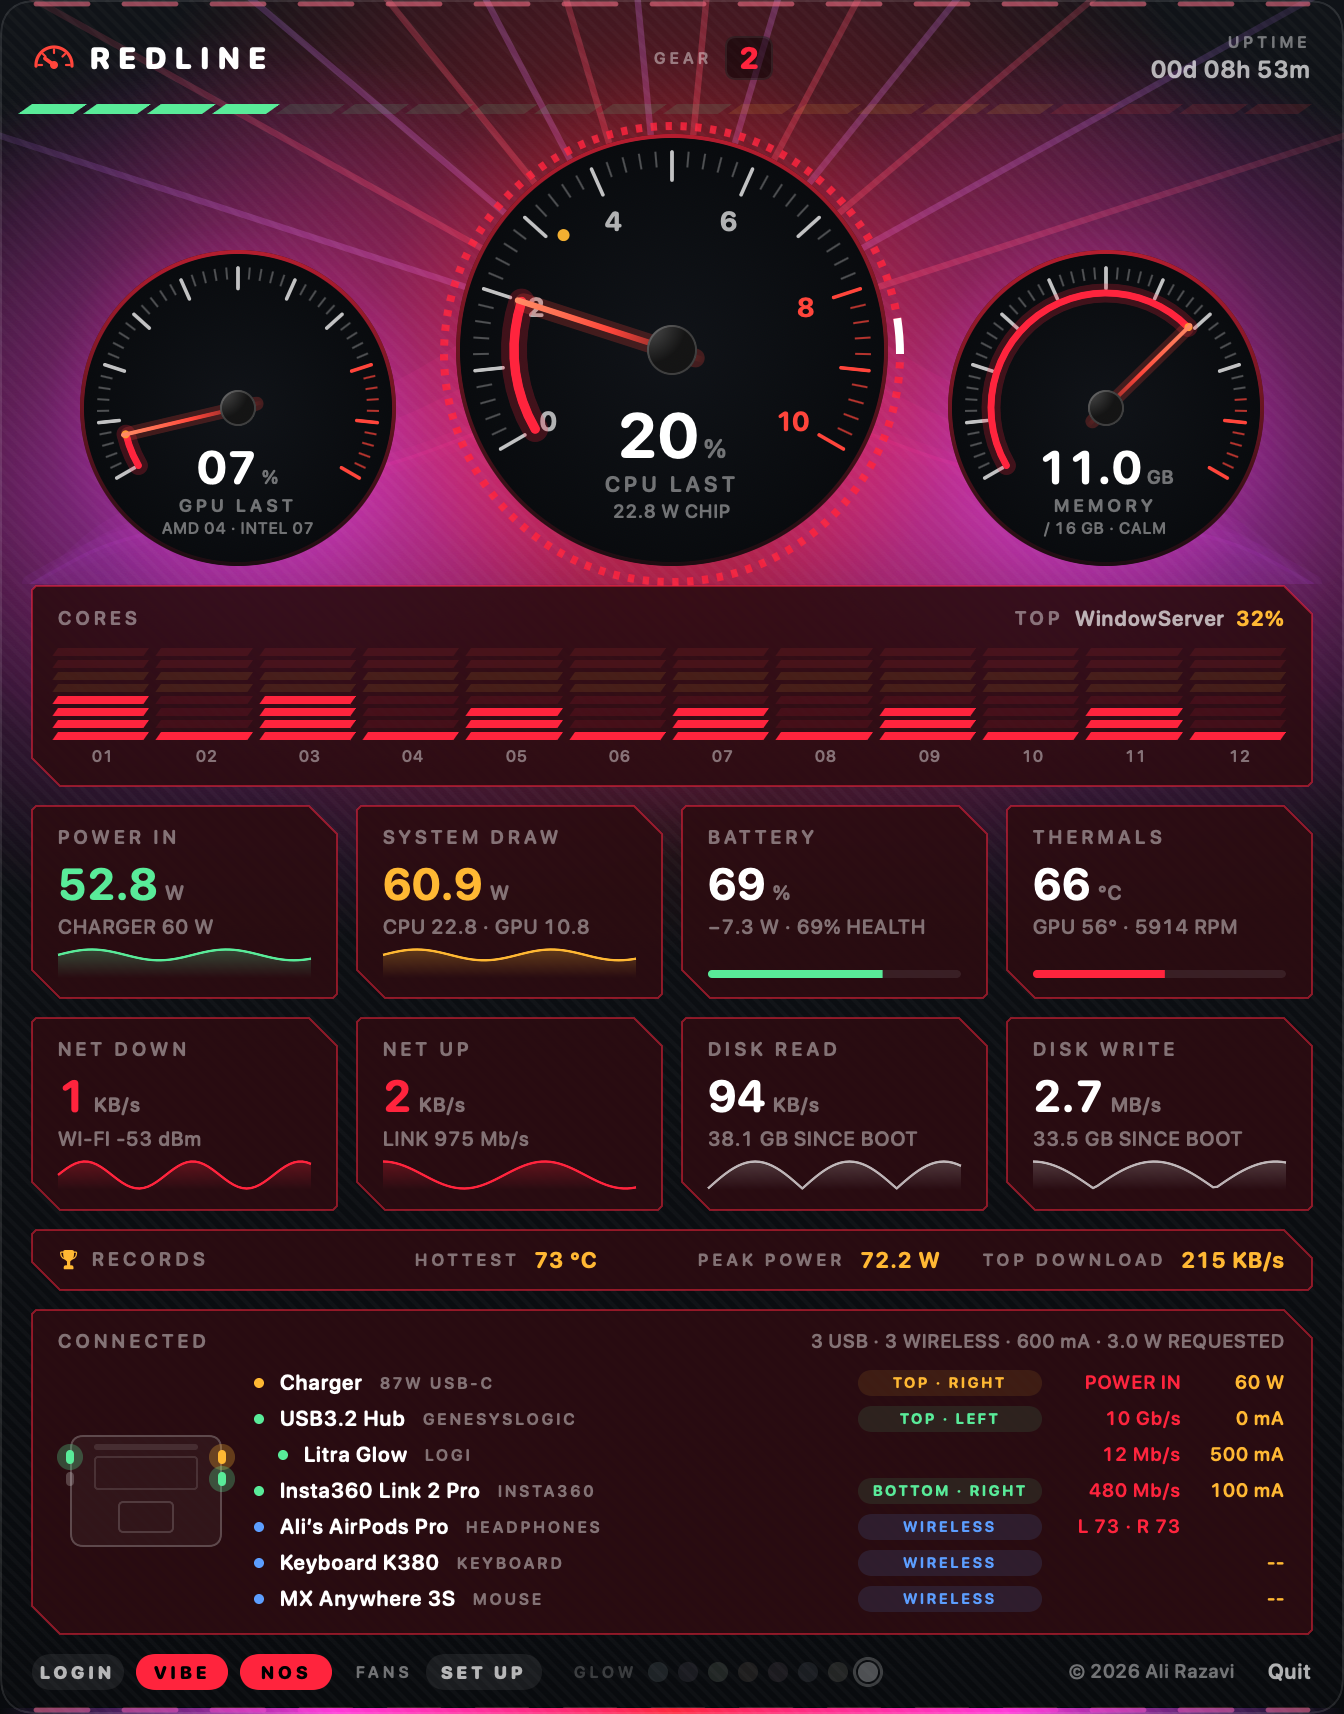
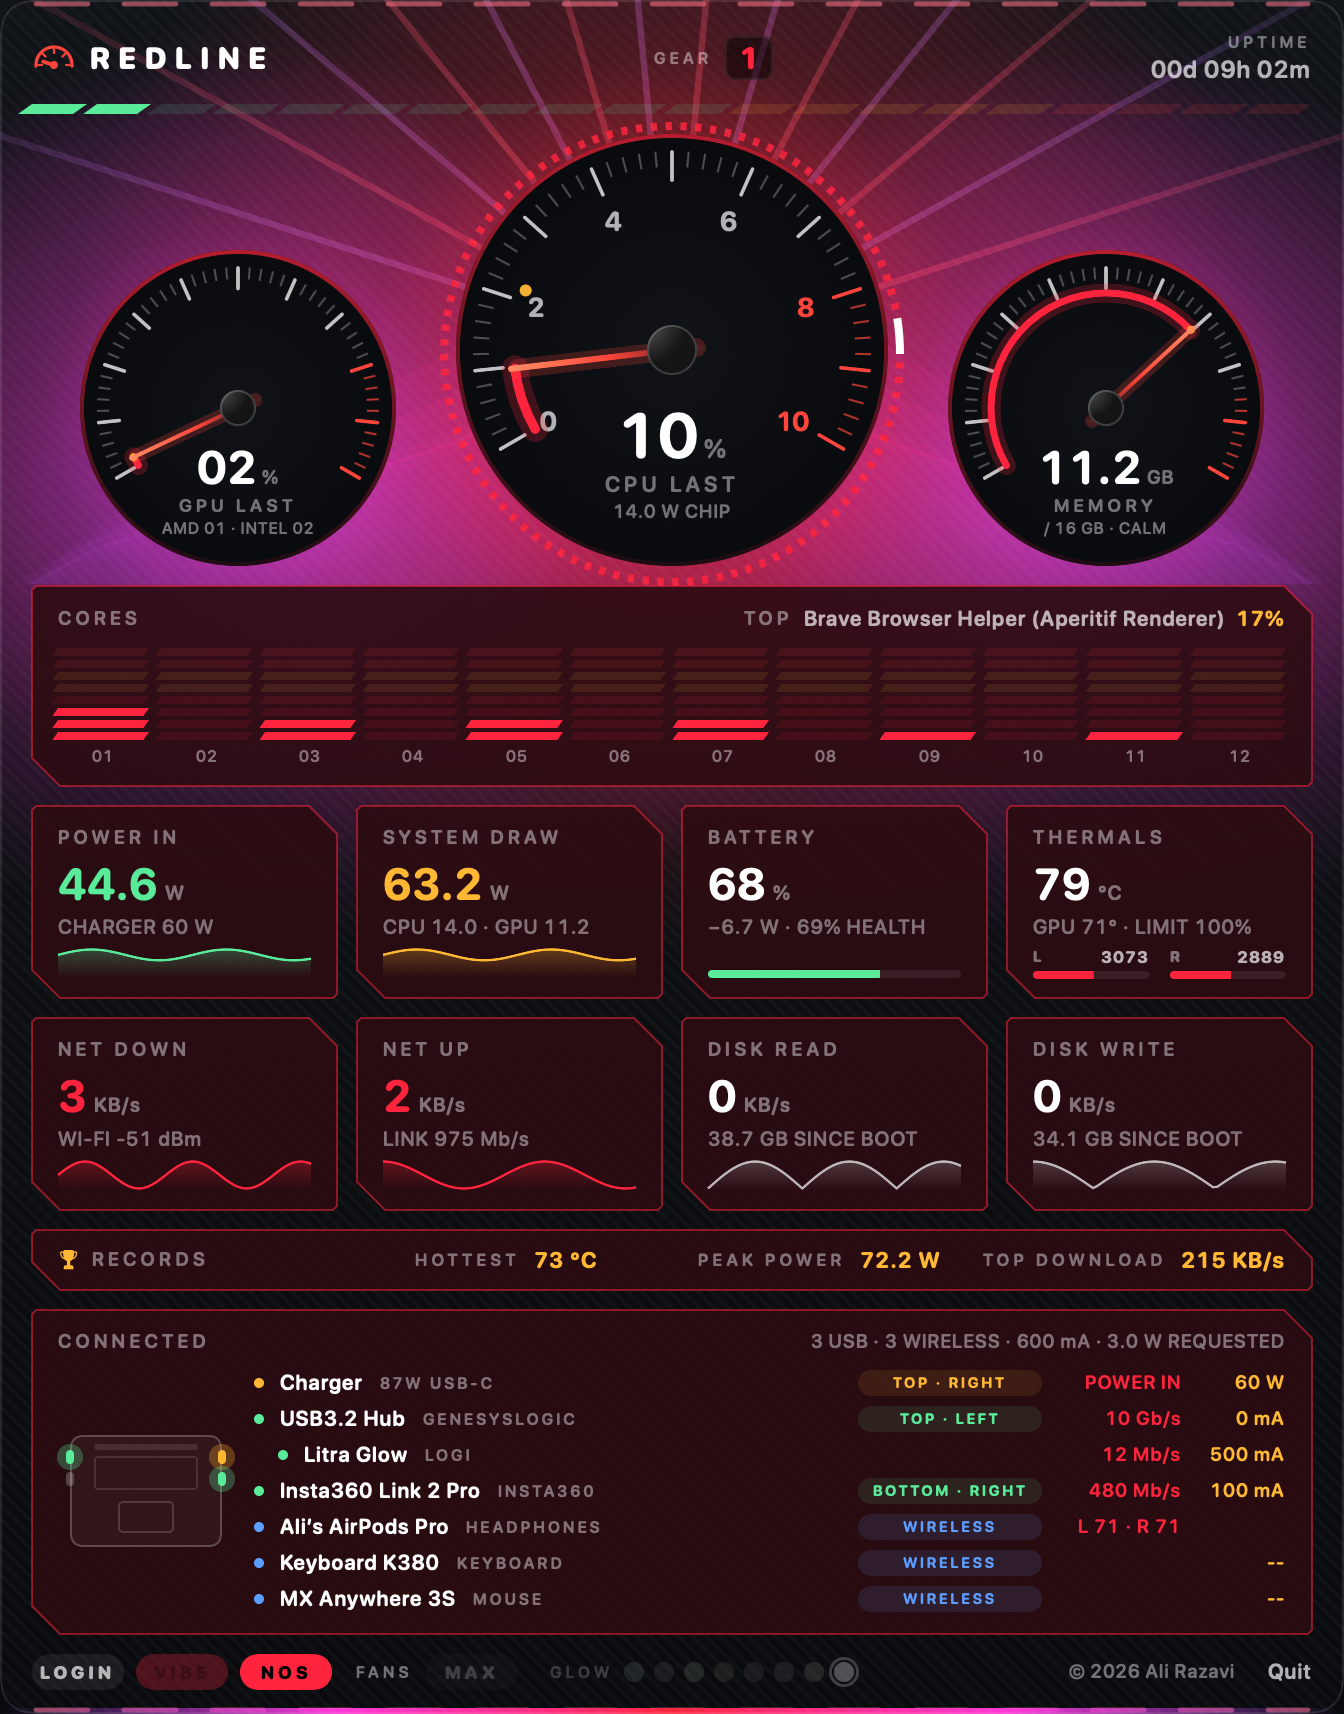
Fan helper v2 (waits before judging, reports why it fails, update path); both fans in the thermals tile; NOS dims VIBE and FANS

diff --git a/src/main.swift b/src/main.swift
@@ -88,6 +88,7 @@ struct Snap {
     var wireless: [Wireless] = []
     var hog = ""; var hogPct = 0.0
     var uptime: TimeInterval = 0
+    var fanTops: [Double] = []
     var fanForced = false     // the sensor chip says the fans are held at a fixed speed
     var chargerSocket = 0     // which USB-C socket (1-4) the charger is in; 0 = none or unknown
 }
@@ -207,6 +208,7 @@ final class Probe {
         let nf = Int(smc.read("FNum") ?? 0)
         s.fans = (0..<min(nf, 4)).compactMap { smc.read("F\($0)Ac") }
         s.fanForced = (smc.read("F0Md") ?? 0) > 0
+        if s.fanTops.count != s.fans.count { s.fanTops = (0..<s.fans.count).map { smc.read("F\($0)Mx") ?? 6000 } }
         if let mx = smc.read("F0Mx"), mx > 1000 { s.fanMax = mx }
         var st: Unmanaged<CFDictionary>?
         if IOPMCopyCPUPowerStatus(&st) == kIOReturnSuccess, let d = st?.takeRetainedValue() as? [String: Any] {
@@ -343,7 +345,18 @@ enum Fans {
         guard let a = try? FileManager.default.attributesOfItem(atPath: helper) else { return false }
         return (a[.ownerAccountID] as? NSNumber)?.intValue == 0 && ((a[.posixPermissions] as? NSNumber)?.intValue ?? 0) & 0o4000 != 0
     }
-    static func set(max: Bool) { guard ready else { return }; _ = Probe.run(helper, [max ? "max" : "auto"]) }
+    static let version = "2"       // must match VERSION in src/fan.c; an older installed helper is asked to be updated
+    /// True when the installed helper is this version.
+    static var current: Bool { ready && (String(data: Probe.run(helper, ["version"]), encoding: .utf8) ?? "").trimmingCharacters(in: .whitespacesAndNewlines) == version }
+    /// Returns what the helper said when it could not do it (empty = fine).
+    @discardableResult static func set(max: Bool) -> String {
+        guard ready else { return "" }
+        let p = Process(); p.executableURL = URL(fileURLWithPath: helper); p.arguments = [max ? "max" : "auto"]
+        let err = Pipe(); p.standardError = err; p.standardOutput = FileHandle.nullDevice
+        guard (try? p.run()) != nil else { return "could not start the helper" }
+        let d = err.fileHandleForReading.readDataToEndOfFile(); p.waitUntilExit()
+        return (String(data: d, encoding: .utf8) ?? "").trimmingCharacters(in: .whitespacesAndNewlines)
+    }
 }
 
 // ---------- The model the panel watches ----------
@@ -355,12 +368,22 @@ final class Model: ObservableObject {
     @Published var vibeNote = ""
     @Published var fanMax = UserDefaults.standard.bool(forKey: "fanMax")      // your own choice: false = automatic, true = maximum
     @Published var fanReady = Fans.ready
+    @Published var fanStale = false          // an older helper is installed and needs the set-up run once more
+    @Published var fanNote = ""              // what the helper said if it could not do it
     /// NOS always means maximum; otherwise it is your choice.
     var fansWanted: Bool { nos || fanMax }
     private var fanApplied = Date.distantPast
     func applyFans() {
         fanApplied = Date(); let want = fansWanted
-        DispatchQueue.global(qos: .userInitiated).async { let ok = Fans.ready; if ok { Fans.set(max: want) }; DispatchQueue.main.async { if self.fanReady != ok { self.fanReady = ok } } }
+        DispatchQueue.global(qos: .userInitiated).async {
+            let ok = Fans.ready, fresh = ok && Fans.current
+            let said = fresh ? Fans.set(max: want) : ""
+            DispatchQueue.main.async {
+                if self.fanReady != ok { self.fanReady = ok }; if self.fanStale != (ok && !fresh) { self.fanStale = ok && !fresh }
+                if self.fanNote != said { self.fanNote = said }
+                if !said.isEmpty { try? (said + "\n").write(toFile: NSHomeDirectory() + "/Library/Logs/Redline-fans.log", atomically: true, encoding: .utf8) }
+            }
+        }
     }
     @Published var nos = false { didSet { if nos != oldValue { Ink.nosOn = nos; announce(); applyFans() } } }   // Coffee Mode is holding the Mac awake
     /// Tells the Touch Bar app (Glowstrip) which look is on. Local to this Mac: a saved setting plus a notification between the two apps.
@@ -439,7 +462,7 @@ final class Model: ObservableObject {
         DispatchQueue.main.async {
             self.onTick?(snap.cpu)
             // macOS takes the fans back after sleep; if what the Mac is doing no longer matches what is wanted, set it again
-            if snap.fanForced != self.fansWanted, -self.fanApplied.timeIntervalSinceNow > 6 { self.applyFans() }
+            if self.fanReady, !self.fanStale, snap.fanForced != self.fansWanted, -self.fanApplied.timeIntervalSinceNow > (self.fanNote.isEmpty ? 6 : 60) { self.applyFans() }
             var r = self.rec
             r[0] = max(r[0], snap.cpuTemp ?? 0); r[1] = max(r[1], snap.sysW ?? 0); if isOpen, settled { r[2] = max(r[2], snap.down) }
             if r != self.rec { self.rec = r; UserDefaults.standard.set(r, forKey: "records") }
@@ -802,18 +825,22 @@ struct Panel: View {
                     do { if loginOn { try SMAppService.mainApp.unregister() } else { try SMAppService.mainApp.register() } } catch {}
                     loginOn = SMAppService.mainApp.status == .enabled
                 }
-                Pill(text: "VIBE", on: m.vibe, tip: m.vibeNote.isEmpty ? "Lights move with the music, and the Touch Bar takes the underglow look" : m.vibeNote) { m.vibe.toggle(); UserDefaults.standard.set(m.vibe, forKey: "vibe"); m.announce() }
+                Pill(text: "VIBE", on: m.vibe || m.nos, tip: m.nos ? "NOS has taken over the lights. Your VIBE setting comes back when NOS goes off." : m.vibeNote.isEmpty ? "Lights move with the music, and the Touch Bar takes the underglow look" : m.vibeNote) { m.vibe.toggle(); UserDefaults.standard.set(m.vibe, forKey: "vibe"); m.announce() }
+                    .disabled(m.nos).opacity(m.nos ? 0.55 : 1)       // NOS is an override: shown as on, dimmed, not clickable
                 Pill(text: "NOS", on: m.nos, tint: Ink.nos, tip: "Coffee Mode: keep the Mac awake, with its own overdrive look") { m.toggleNOS() }
                 HStack(spacing: 6) {
                     label("FANS", 8).fixedSize()
-                    Pill(text: !m.fanReady ? "SET UP" : (m.fansWanted ? "MAX" : "AUTO"), on: m.fanReady && m.fansWanted, tint: Ink.amber,
+                    let setUp = !m.fanReady || m.fanStale, held = m.s.fanForced
+                    Pill(text: !m.fanReady ? "SET UP" : (m.fanStale ? "UPDATE" : (m.fansWanted ? "MAX" : "AUTO")), on: !setUp && m.fansWanted && held, tint: Ink.amber,
                          tip: !m.fanReady ? "Fan control needs a one-time set-up with your Mac password. Click to start it."
-                              : (m.nos ? "Held at maximum while NOS is on" : (m.fanMax ? "Both fans at their rated maximum. Click for automatic." : "macOS controls the fans. Click for maximum."))) {
-                        if !m.fanReady {
-                            if Fans.ready { m.applyFans() }
+                              : m.fanStale ? "The fan helper was improved. Click to install the new one (asks for your Mac password once more)."
+                              : !m.fanNote.isEmpty ? "The Mac did not accept it: \(m.fanNote)"
+                              : (m.nos ? "Held at maximum while NOS is on" : (m.fanMax ? "Both fans at their rated maximum (\(m.s.fanTops.map { String(format: "%.0f", $0) }.joined(separator: " and ")) rpm). Click for automatic." : "macOS controls the fans. Click for maximum."))) {
+                        if setUp {
+                            if Fans.current { m.applyFans() }
                             else if let r = Bundle.main.resourcePath { NSWorkspace.shared.open(URL(fileURLWithPath: r + "/Enable fan control.command")) }
                         } else { m.fanMax.toggle(); UserDefaults.standard.set(m.fanMax, forKey: "fanMax"); m.applyFans() }
-                    }.disabled(m.nos && m.fanReady).opacity(m.nos && m.fanReady ? 0.55 : 1)
+                    }.disabled(m.nos && !setUp).opacity(m.nos && !setUp ? 0.55 : 1)
                 }.padding(.leading, 6)
                 HStack(spacing: 5) {
                     label("GLOW", 8).fixedSize().opacity(m.nos ? 0.45 : 1)
@@ -896,9 +923,24 @@ struct Panel: View {
                      sub: String(format: "%@%.1f W · %.0f%% HEALTH", s.battW >= 0 ? "+" : "−", abs(s.battW), s.health * 100),
                      tint: s.battPct <= 15 ? Ink.red : .white) { Bar(value: v(Double(s.battPct) / 100), color: s.battPct <= 15 ? Ink.red : Ink.green) }
                     .help(String(format: "%d charge cycles · battery %.0f °C", s.cycles, s.battTemp))
-                Tile(title: "THERMALS", big: s.cpuTemp.map { String(format: "%.0f", $0) } ?? "--", unit: "°C",
-                     sub: "GPU \(s.gpuTemp.map { String(format: "%.0f°", $0) } ?? "--") · \(s.fans.isEmpty ? "--" : String(format: "%.0f", s.fans.max() ?? 0)) RPM",
-                     tint: (s.cpuTemp ?? 0) >= 90 ? Ink.red : .white) { Bar(value: v(((s.cpuTemp ?? 30) - 30) / 70), color: (s.cpuTemp ?? 0) >= 90 ? Ink.red : Ink.ice) }
+                Tile(title: s.fanForced ? "THERMALS · FANS MAX" : "THERMALS", big: s.cpuTemp.map { String(format: "%.0f", $0) } ?? "--", unit: "°C",
+                     sub: "GPU \(s.gpuTemp.map { String(format: "%.0f°", $0) } ?? "--") · LIMIT \(s.speedLimit)%",
+                     tint: (s.cpuTemp ?? 0) >= 90 ? Ink.red : .white) {
+                    // one small gauge per fan: its speed now, as a share of that fan's own rated maximum
+                    HStack(spacing: 10) {
+                        ForEach(Array(s.fans.prefix(2).enumerated()), id: \.offset) { i, rpm in
+                            let top = s.fanTops.count > i ? s.fanTops[i] : s.fanMax
+                            VStack(spacing: 2) {
+                                HStack(spacing: 0) {
+                                    Text(i == 0 ? "L" : "R").font(.system(size: 7.5, weight: .heavy, design: .rounded)).foregroundColor(Ink.dim)
+                                    Spacer(minLength: 2)
+                                    Text(String(format: "%.0f", rpm)).font(digits(8.5, .bold)).foregroundColor(s.fanForced ? Ink.amber : Ink.mid)
+                                }
+                                Bar(value: v(rpm / max(1, top)), color: s.fanForced ? Ink.amber : Ink.ice).frame(height: 4)
+                            }.help(String(format: "%@ fan: %.0f of %.0f rpm", i == 0 ? "Left" : "Right", rpm, top))
+                        }
+                    }
+                }
             }
             HStack(spacing: 10) {
                 let d = rate(s.down), u = rate(s.up), r = rate(s.read), wr = rate(s.write)

diff --git a/src/fan.c b/src/fan.c
@@ -17,10 +17,13 @@ typedef struct { UInt32 dataSize; UInt32 dataType; char dataAttributes; } info_t
 typedef struct { UInt32 key; vers_t vers; plimit_t pLimitData; info_t keyInfo; char result, status, data8; UInt32 data32; unsigned char bytes[32]; } smc_t;
 
 static io_connect_t conn;
+static int lastKr = 0, lastResult = 0;      // how the chip answered the most recent request, for honest error messages
+#define VERSION 2
 static UInt32 code(const char *s) { return ((UInt32)s[0] << 24) | ((UInt32)s[1] << 16) | ((UInt32)s[2] << 8) | (UInt32)s[3]; }
 static int call(smc_t *in, smc_t *out) {
     size_t n = sizeof(smc_t); memset(out, 0, sizeof(smc_t));
-    return IOConnectCallStructMethod(conn, 2, in, sizeof(smc_t), out, &n) == kIOReturnSuccess && out->result == 0;
+    lastKr = IOConnectCallStructMethod(conn, 2, in, sizeof(smc_t), out, &n); lastResult = (unsigned char)out->result;
+    return lastKr == kIOReturnSuccess && out->result == 0;
 }
 static int info(const char *key, info_t *ki) {
     smc_t in, out; memset(&in, 0, sizeof in); in.key = code(key); in.data8 = 9;
@@ -60,11 +63,13 @@ static int writeNumber(const char *key, double v) {
 }
 
 int main(int argc, char **argv) {
+    if (argc == 2 && !strcmp(argv[1], "version")) { printf("%d\n", VERSION); return 0; }
     if (argc != 2 || (strcmp(argv[1], "status") && strcmp(argv[1], "max") && strcmp(argv[1], "auto"))) { fprintf(stderr, "usage: redline-fan status|max|auto\n"); return 2; }
     int want = !strcmp(argv[1], "max") ? 1 : (!strcmp(argv[1], "auto") ? 0 : -1);
     io_service_t svc = IOServiceGetMatchingService(kIOMainPortDefault, IOServiceMatching("AppleSMC"));
     if (!svc || IOServiceOpen(svc, mach_task_self(), 0, &conn) != kIOReturnSuccess) { fprintf(stderr, "cannot reach the sensor chip\n"); return 1; }
     double count = 0; if (!readNumber("FNum", &count) || count < 1 || count > 6) { fprintf(stderr, "no fans found\n"); return 1; }
+    if (want >= 0 && geteuid() == 0) { setgid(0); setuid(0); }      // act fully as the system, not half as the user
     if (want >= 0 && geteuid() != 0) { fprintf(stderr, "needs administrator rights: run 'Enable fan control' once\n"); return 3; }
     int ok = 1;
     for (int i = 0; i < (int)count; i++) {
@@ -73,10 +78,15 @@ int main(int argc, char **argv) {
         if (!readNumber(mx, &top) || top < 1000 || top > 12000) { fprintf(stderr, "fan %d: no rated maximum, left alone\n", i); ok = 0; continue; }
         if (want == 1) {
             // The target is the fan's own rated maximum as reported by the Mac (never a number made up here, never above it).
-            // If the target does not stick, the fan is handed straight back to macOS rather than left in an unknown state.
-            double set = 0;
-            if (!(writeNumber(md, 1) && writeNumber(tg, top)) || !readNumber(tg, &set) || set > top + 1 || set < top - 50) {
-                writeNumber(md, 0); fprintf(stderr, "fan %d: could not set maximum, returned to automatic\n", i); ok = 0;
+            int okMode = writeNumber(md, 1), krM = lastKr, rsM = lastResult;
+            int okTarget = writeNumber(tg, top), krT = lastKr, rsT = lastResult;
+            // The chip takes a moment to accept a new target, so look again for up to two seconds before judging.
+            double set = 0, m = 0; int good = 0;
+            for (int t = 0; t < 14 && !good; t++) { usleep(150000); readNumber(tg, &set); readNumber(md, &m); good = m > 0 && set <= top + 1 && set >= top - 60; }
+            if (!good) {      // never leave a fan held at a speed nobody chose: hand it straight back to macOS
+                writeNumber(md, 0); ok = 0;
+                fprintf(stderr, "fan %d: maximum not accepted, returned to automatic (mode write %d kr=%x r=%02x, target write %d kr=%x r=%02x, read back mode %.0f target %.0f of %.0f)\n",
+                        i, okMode, krM, rsM, okTarget, krT, rsT, m, set, top);
             }
         }
         if (want == 0) { if (!writeNumber(md, 0)) { fprintf(stderr, "fan %d: could not return to automatic\n", i); ok = 0; } }
